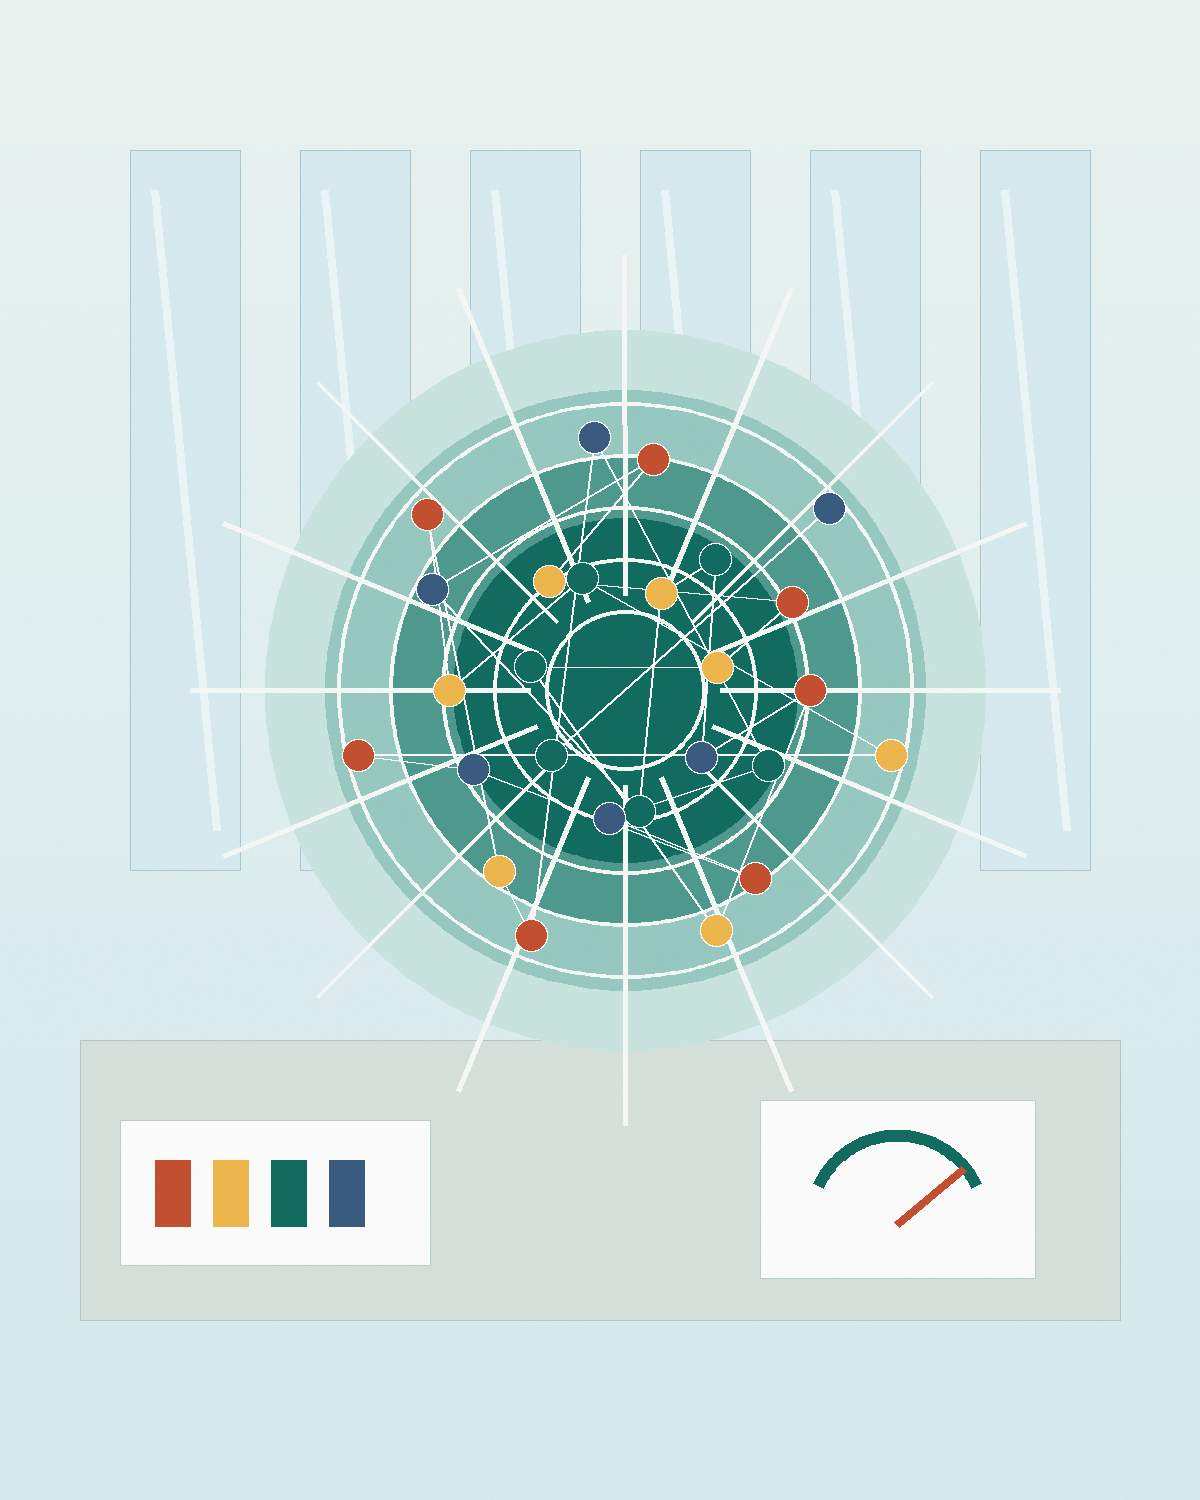
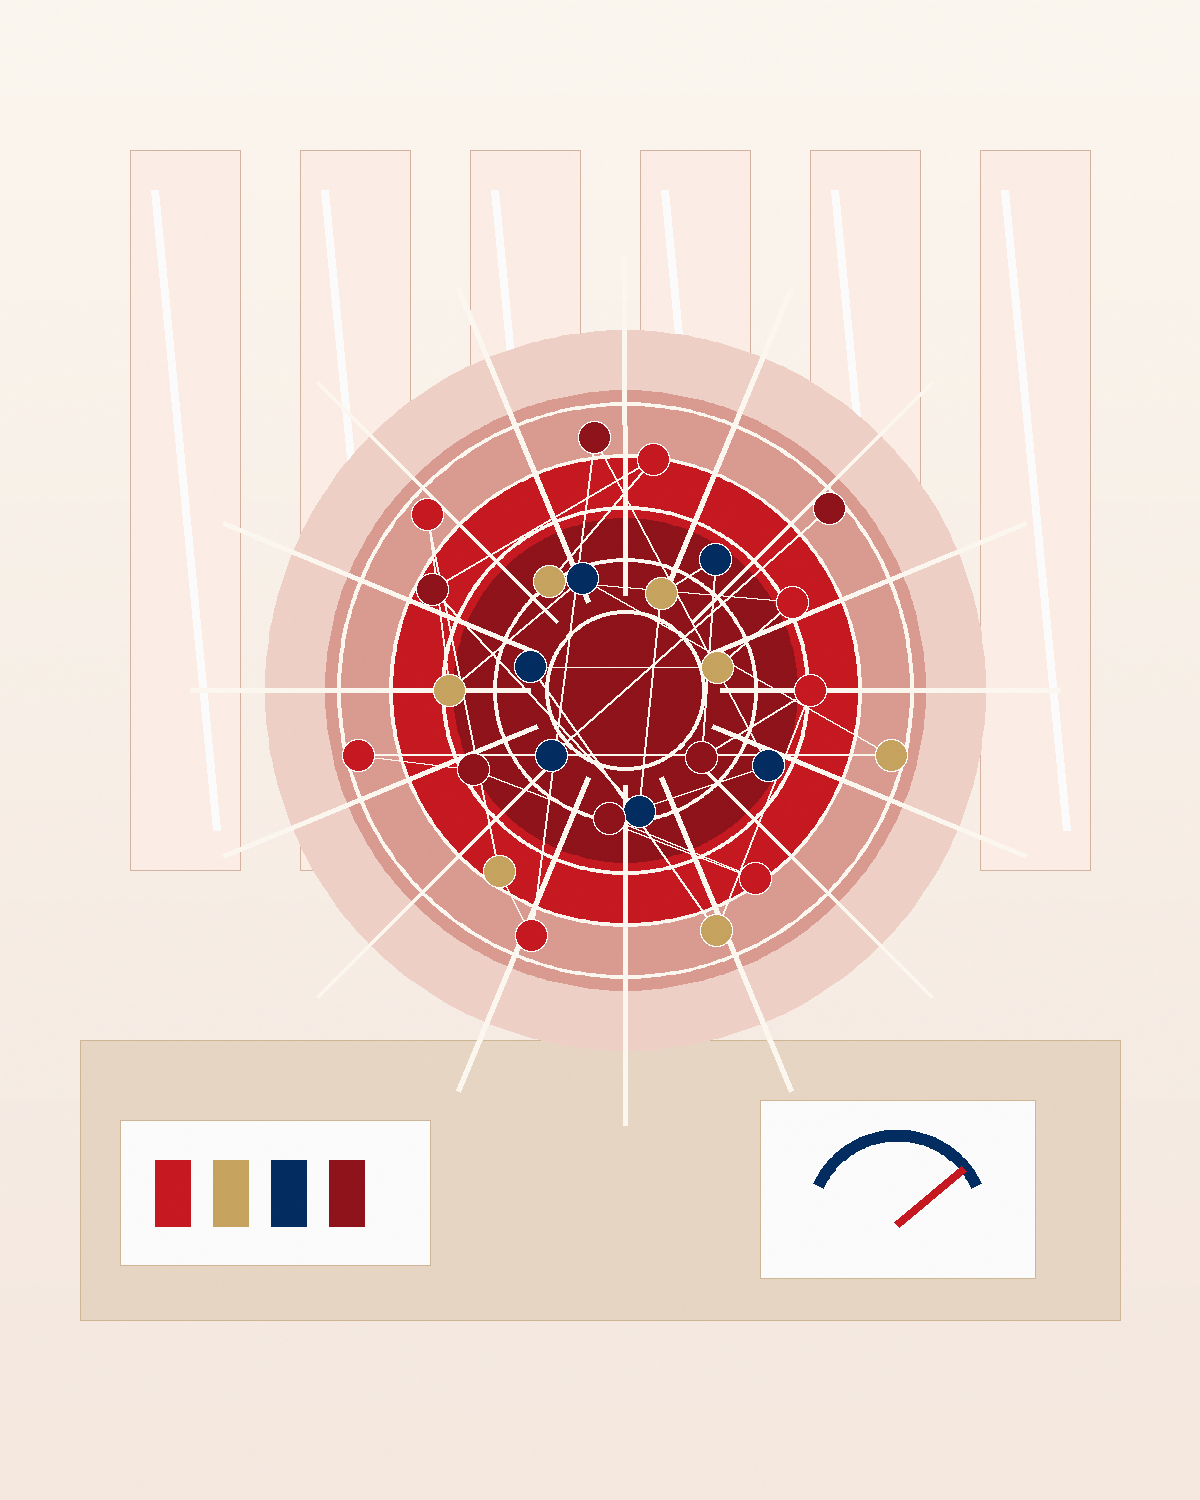
update color theme

diff --git a/src/styles/global.css b/src/styles/global.css
@@ -1,15 +1,16 @@
 :root {
   color-scheme: light;
-  --ink: #17202a;
-  --muted: #667085;
-  --paper: #fbfcf8;
+  --ink: #241715;
+  --muted: #725f5b;
+  --paper: #fffaf2;
   --surface: #ffffff;
-  --line: #d9e2dc;
-  --brand: #0f6b5f;
-  --brand-strong: #08443c;
-  --accent: #c54e2e;
-  --sky: #d9edf2;
-  --shadow: 0 18px 45px rgba(24, 35, 44, 0.11);
+  --line: #ead8c6;
+  --brand: #c8161e;
+  --brand-strong: #8f1017;
+  --accent: #002b60;
+  --gold: #c8a45d;
+  --tint: #fff0e8;
+  --shadow: 0 18px 45px rgba(88, 18, 18, 0.13);
   font-family:
     Inter, ui-sans-serif, system-ui, -apple-system, BlinkMacSystemFont, "Segoe UI",
     sans-serif;
@@ -52,7 +53,7 @@ main {
 
 .site-header {
   align-items: center;
-  background: rgba(251, 252, 248, 0.92);
+  background: rgba(255, 250, 242, 0.94);
   border-bottom: 1px solid var(--line);
   display: flex;
   gap: 24px;
@@ -102,7 +103,7 @@ nav a {
 
 nav a:hover,
 nav a[aria-current="page"] {
-  background: var(--sky);
+  background: var(--tint);
   color: var(--brand-strong);
 }
 
@@ -174,7 +175,7 @@ p {
 }
 
 .lead {
-  color: #3f4c59;
+  color: #5e4a45;
   font-size: clamp(1.04rem, 2vw, 1.28rem);
   max-width: 760px;
 }
@@ -203,6 +204,16 @@ p {
   color: var(--brand-strong);
 }
 
+.button:hover {
+  background: var(--brand-strong);
+  border-color: var(--brand-strong);
+}
+
+.button.secondary:hover {
+  background: var(--tint);
+  border-color: #e4b5a2;
+}
+
 .hero-visual {
   aspect-ratio: 4 / 5;
   border: 1px solid var(--line);
@@ -224,7 +235,7 @@ p {
 }
 
 .section.alt {
-  background: #eef6f4;
+  background: #fff0e8;
 }
 
 .section-heading {
@@ -287,7 +298,7 @@ p {
 }
 
 .page-header {
-  background: #eef6f4;
+  background: #fff0e8;
   padding-bottom: 54px;
   padding-top: 54px;
 }
@@ -344,7 +355,7 @@ p {
 
 .person img {
   aspect-ratio: 1;
-  background: #e8efeb;
+  background: #f3e5d4;
   border-radius: 8px;
   object-fit: cover;
   width: 100%;